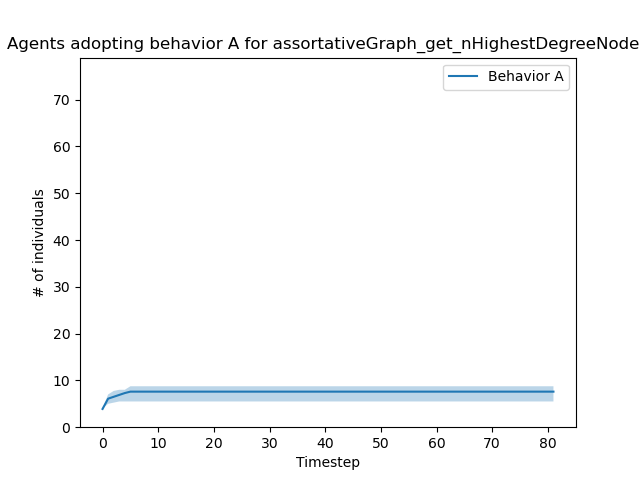
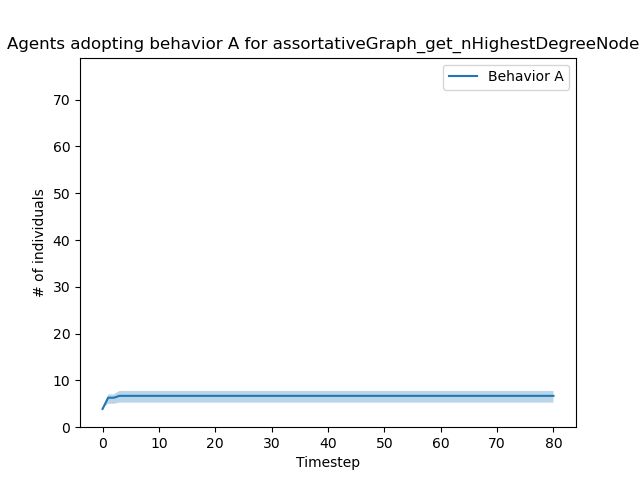
Added eigenvalue centrality and edge betweenness

diff --git a/Project03/Graphs.py b/Project03/Graphs.py
@@ -2,6 +2,7 @@ import matplotlib.pyplot as plt
 import networkx as nx
 import numpy as np
 import pandas as pd
+from networkx.algorithms.community.centrality import girvan_newman
 
 from AssortativeNetworkManager import MixedNetworkFormation
 from Experiment import Experiment
@@ -144,6 +145,38 @@ def random_early_adopters(G, n):
     return np.random.choice(np.arange(1, len(G) + 1), n).tolist()
 
 
+def eig_centrality_early_adopters(G, n):
+    nodes = nx.eigenvector_centrality(G, max_iter=500, tol=1e-2)
+    nodes_list = list(nodes.items())
+    sorted_nodes_list = sorted(nodes_list, key=lambda x: x[1], reverse=True)
+    early_adopters = [x[0] for x in sorted_nodes_list][:n]
+    return early_adopters
+
+
+def add_edges_betweenness(G, n):
+    # Add n edges to the graph based on girvan newman betweenness
+    betweenness = {}
+    # Generate potential edges
+    potential_edges = np.random.choice(np.arange(1, len(G) + 1), (100, 2))
+    for edge in potential_edges:
+        u, v = edge
+        # u must be <= v
+        if u > v:
+            temp = u
+            u = v
+            v = temp
+
+        if not G.has_edge(u, v):
+            G.add_edge(u, v)
+            betweenness[(u, v)] = nx.edge_betweenness_centrality(G)[(u, v)]
+            G.remove_edge(u, v)
+    betweenness_list = list(betweenness.items())
+    sorted_betweenness_list = sorted(betweenness_list, key=lambda x: x[1], reverse=True)
+    edges_to_add = [x[0] for x in sorted_betweenness_list][:n]
+    G.add_edges_from(edges_to_add)
+    return G
+
+
 if __name__ == "__main__":
 
     Graphs = {
@@ -151,6 +184,7 @@ if __name__ == "__main__":
             "random_early_adopters",
             "get_nHighestDegreeNodes",
             "get_nLowestDegreeNodes",
+            "eig_centrality_early_adopters",
         ]
         # "NCM_Graph": [[1, 2], [7, 8], [6, 7, 12]],
         # "circulantGraph_2x": [[1, 2], [1, 10]],
@@ -177,24 +211,30 @@ if __name__ == "__main__":
             "avg_path_len",
         ]
     )
-    for graphName in Graphs.keys():
-        graphGenerator = eval(graphName)
-        for i, earlyAdopters in enumerate(Graphs[graphName]):
+    graphName = "assortativeGraph"
+    graphGenerator = eval(graphName)
+    edge_methods = ["add_random_edges", "add_edges_betweenness"]
+
+    for i, earlyAdopters in enumerate(Graphs[graphName]):
+        for j, edge_method in enumerate(edge_methods):
             E = Experiment(
                 graphGenerator,
                 eval(earlyAdopters),
-                add_random_edges,
+                eval(edge_method),
                 trials,
-                graphName + "_" + earlyAdopters,
+                graphName + "_" + earlyAdopters + "_" + edge_method,
                 i,
             )
             stats = E.run()
             stats_df = pd.concat(
                 [stats_df, pd.DataFrame(stats, index=[stats_df.shape[0]])]
             )
-        stats_df.to_csv("stats_summary.csv")
-        plt.bar(Graphs[graphName], stats_df["percentage_adopting"].tolist())
-        plt.title("Percentage Adopting vs. Early Adopters Method")
-        plt.ylabel("Percentage Adopting")
-        plt.savefig("barplot.png")
-        plt.show()
+    stats_df.to_csv("stats_summary.csv")
+    __import__("pudb").set_trace()
+    stats_df.plot(x="name", y=[], kind="bar")
+
+    # plt.bar(Graphs[graphName], stats_df["percentage_adopting"].tolist())
+    # plt.title("Percentage Adopting vs. Early Adopters Method")
+    # plt.ylabel("Percentage Adopting")
+    # plt.savefig("barplot.png")
+    # plt.show()
